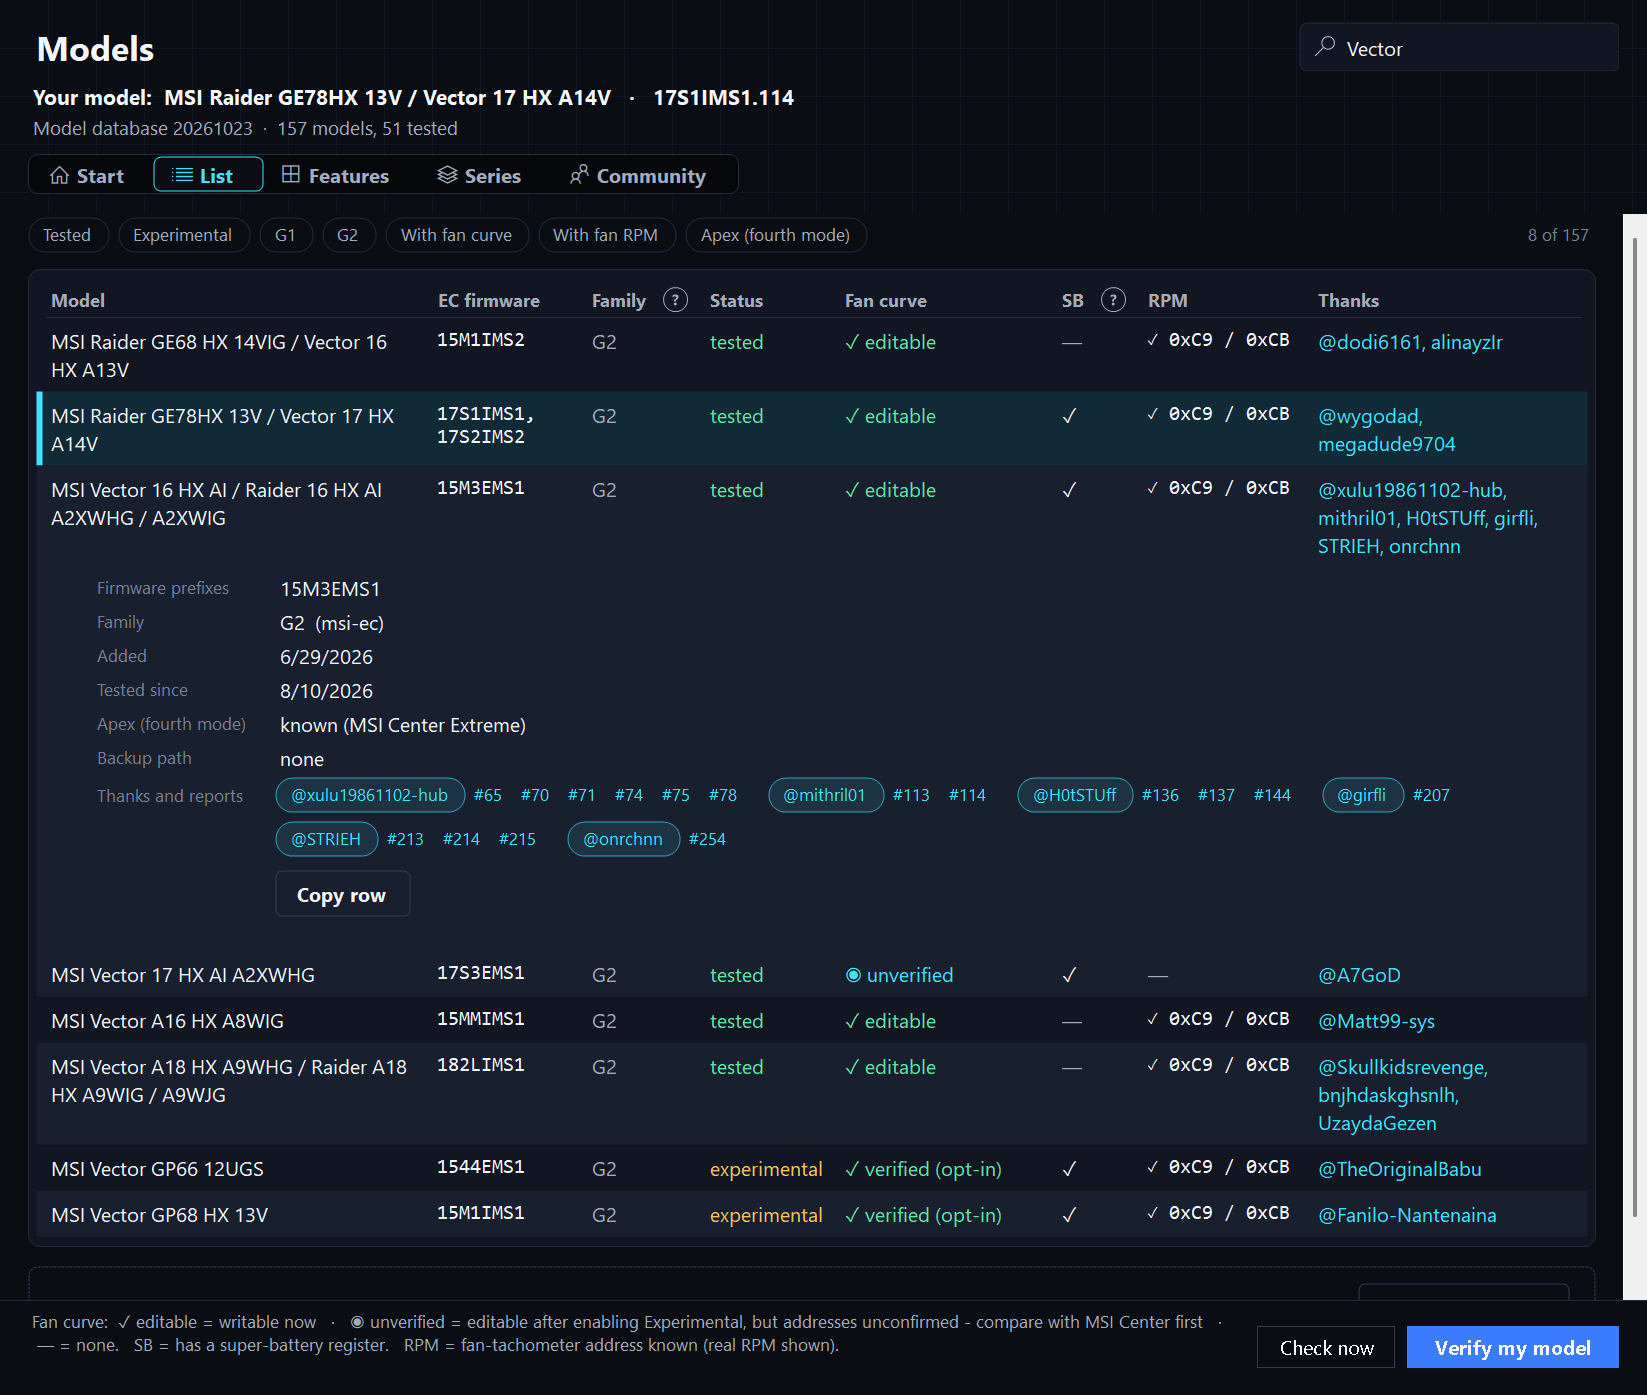
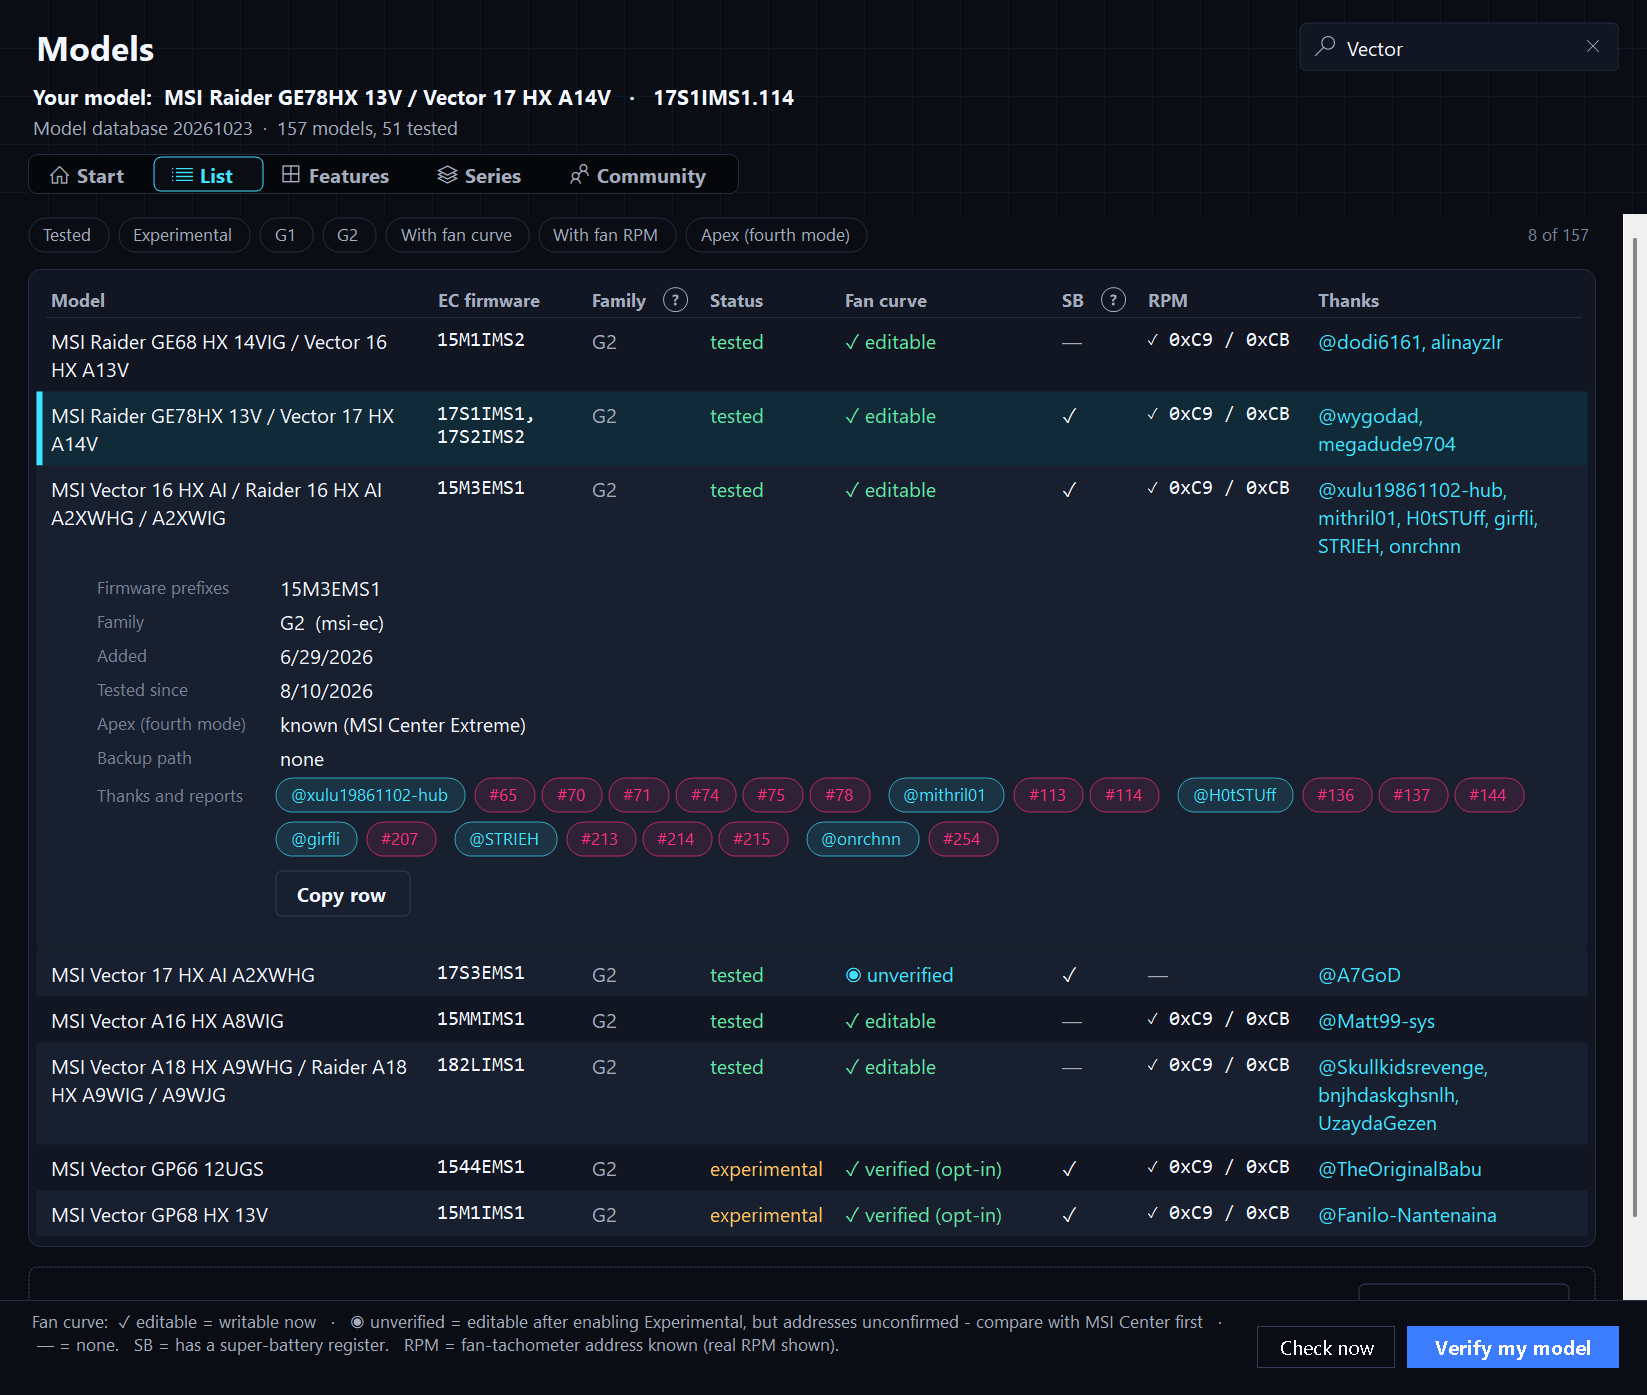
Models tab: report numbers as brand-pink chips, clear button in the search box, timeline hover clear of the date, no horizontal scrollbar
The view's width is decided before the vertical scrollbar appears (measure at full width, lay
out again next to the bar when the content is taller) and the panel recomputes its bars right
after, so the List and Community no longer show a horizontal bar.

Changed region(s): [[0.1858, 0.5548, 0.929, 0.6165]]

diff --git a/UI/ModelsPage.cs b/UI/ModelsPage.cs
@@ -327,13 +327,21 @@ public sealed class ModelsPage : ThemedPage
     /// <summary>Size the visible view to its content (the host scrolls it).</summary>
     internal void LayoutContent()
     {
+        // The view's width is decided BEFORE the vertical scrollbar shows up: measure at the full
+        // width, and when the content is taller than the host, lay out again at the width that is
+        // left next to the bar. Sizing the child after the bar appeared left the panel with a
+        // horizontal bar it never recomputed (same trap as ThemedPage.LayoutAndSyncScroll).
         var v = _views[_tab];
-        int w = _scrollHost.ClientSize.Width;
-        v.Width = w;
-        v.Height = Math.Max(v.ContentHeight(w), _scrollHost.ClientSize.Height);
-        // the scrollbar may have appeared or gone with the new height: measure once more
-        int w2 = _scrollHost.ClientSize.Width;
-        if (w2 != w) { v.Width = w2; v.Height = Math.Max(v.ContentHeight(w2), _scrollHost.ClientSize.Height); }
+        int full = _scrollHost.Width, hostH = _scrollHost.Height;
+        int h = v.ContentHeight(full);
+        int w = full;
+        if (h > hostH)
+        {
+            w = full - SystemInformation.VerticalScrollBarWidth;
+            h = v.ContentHeight(w);
+        }
+        v.SetBounds(v.Left, v.Top, w, Math.Max(h, hostH));
+        _scrollHost.PerformLayout();   // the panel recomputes its bars for the new child size
     }
 
     private void PaintFooter(object? sender, PaintEventArgs e)
@@ -394,6 +402,7 @@ public sealed class ModelsPage : ThemedPage
     {
         public readonly TextBox Box = new() { BorderStyle = BorderStyle.None, Font = new Font("Segoe UI", 10.5f) };
         private static readonly Font Glyph = new("Segoe MDL2 Assets", 10.5f);
+        private static readonly Font ClearGlyph = new("Segoe MDL2 Assets", 8.5f);
 
         public SearchBox()
         {
@@ -403,6 +412,7 @@ public sealed class ModelsPage : ThemedPage
             Controls.Add(Box);
             Box.GotFocus += (_, _) => Invalidate();
             Box.LostFocus += (_, _) => Invalidate();
+            Box.TextChanged += (_, _) => { PerformLayout(); Invalidate(); };   // the X comes and goes
             ApplyTheme();
         }
 
@@ -411,12 +421,30 @@ public sealed class ModelsPage : ThemedPage
 
         public void ApplyTheme() { Box.BackColor = Theme.Card; Box.ForeColor = Theme.Text; BackColor = Theme.Surface; Invalidate(); }
 
-        protected override void OnClick(EventArgs e) { base.OnClick(e); Box.Focus(); }
+        private bool HasText => Box.TextLength > 0;
+        private Rectangle ClearRect => new(Width - S(30), (Height - S(22)) / 2, S(22), S(22));
+        private bool _overClear;
+
+        protected override void OnMouseMove(MouseEventArgs e)
+        {
+            base.OnMouseMove(e);
+            bool over = HasText && ClearRect.Contains(e.Location);
+            Cursor = over ? Cursors.Hand : Cursors.IBeam;
+            if (over != _overClear) { _overClear = over; Invalidate(); }
+        }
+        protected override void OnMouseLeave(EventArgs e) { base.OnMouseLeave(e); if (_overClear) { _overClear = false; Invalidate(); } }
+
+        protected override void OnMouseClick(MouseEventArgs e)
+        {
+            base.OnMouseClick(e);
+            if (HasText && ClearRect.Contains(e.Location)) Box.Clear();   // TextChanged re-filters
+            Box.Focus();
+        }
 
         protected override void OnLayout(LayoutEventArgs levent)
         {
             base.OnLayout(levent);
-            int left = S(34), right = S(12);
+            int left = S(34), right = HasText ? S(36) : S(12);
             Box.SetBounds(left, (Height - Box.Height) / 2, Math.Max(10, Width - left - right), Box.Height);
         }
 
@@ -432,6 +460,16 @@ public sealed class ModelsPage : ThemedPage
                 using var pen = new Pen(focus ? Theme.Accent : Theme.Border, focus ? 1.5f : 1f); g.DrawPath(pen, path);
             }
             Ui.CenterGlyph(g, "\uE721", Glyph, focus ? Theme.Accent : Theme.Muted, new RectangleF(S(8), 0, S(20), Height));
+            if (HasText)
+            {
+                var cr = ClearRect;
+                if (_overClear)
+                {
+                    using var b = new SolidBrush(Color.FromArgb(Theme.Dark ? 30 : 20, Theme.Text));
+                    g.FillEllipse(b, cr);
+                }
+                Ui.CenterGlyph(g, "\uE711", ClearGlyph, _overClear ? Theme.Text : Theme.Muted, cr);
+            }
         }
     }
 }

diff --git a/UI/ModelsViews.cs b/UI/ModelsViews.cs
@@ -10,7 +10,7 @@ namespace GhostDeck;
 /// change.
 /// </summary>
 /// <summary>How a click zone shows that it is under the mouse.</summary>
-internal enum HoverKind { None, Card, Row, Chip, Button, Link }
+internal enum HoverKind { None, Card, Row, Chip, ChipPink, Button, Link }
 
 internal abstract class ModelsView : Control
 {
@@ -83,10 +83,12 @@ internal abstract class ModelsView : Control
                 using (var bar = new SolidBrush(Theme.Accent)) g.FillRectangle(bar, r.X, r.Y, S(3), r.Height);
                 break;
             case HoverKind.Chip:
+            case HoverKind.ChipPink:
+                var hc = k == HoverKind.ChipPink ? Theme.Red : Theme.Accent;
                 using (var path = Theme.RoundRect(new RectangleF(r.X + 0.5f, r.Y + 0.5f, r.Width - 1, r.Height - 1), r.Height / 2f - 1))
                 {
-                    using var b = new SolidBrush(Color.FromArgb(40, Theme.Accent)); g.FillPath(b, path);
-                    using var pen = new Pen(Theme.Accent); g.DrawPath(pen, path);
+                    using var b = new SolidBrush(Color.FromArgb(40, hc)); g.FillPath(b, path);
+                    using var pen = new Pen(hc); g.DrawPath(pen, path);
                 }
                 break;
             case HoverKind.Button:
@@ -137,23 +139,23 @@ internal abstract class ModelsView : Control
             string label = "@" + login;
             int cw = ModelsText.NaturalW(label, ModelsPage.FSmall) + S(16);
             var nums = d.CreditIssues.TryGetValue(login, out var n) ? n : Array.Empty<int>();
-            int numsW = nums.Sum(k => ModelsText.NaturalW("#" + k, ModelsPage.FSmall) + S(6));
+            int numsW = nums.Sum(k => ModelsText.NaturalW("#" + k, ModelsPage.FSmall) + S(16) + S(4));
             if (cx + cw + numsW > x + w && cx > x) { cx = x; cy += ch + S(6); }
             Chip(g, cx, cy, label, Theme.Accent, true);
             string who = login;
             Zone(g, new Rectangle(cx, cy, cw, ch), () => ModelsPage.OpenUrl("https://github.com/" + Uri.EscapeDataString(who)),
                  "github.com/" + who, HoverKind.Chip);
             cx += cw + S(6);
+            // each report: a chip like the login's, in the brand pink (the Extreme colour)
             foreach (var num in nums)
             {
                 string t = "#" + num;
-                int tw = ModelsText.NaturalW(t, ModelsPage.FSmall);
+                int tw = ModelsText.NaturalW(t, ModelsPage.FSmall) + S(16);
                 if (cx + tw > x + w && cx > x) { cx = x; cy += ch + S(6); }
-                var r = new Rectangle(cx, cy + (ch - ModelsPage.FSmall.Height) / 2, tw, ModelsPage.FSmall.Height);
-                T(g, t, ModelsPage.FSmall, r, Theme.Accent, TextFormatFlags.Left | TextFormatFlags.NoPrefix | TextFormatFlags.SingleLine | TextFormatFlags.NoPadding);
+                Chip(g, cx, cy, t, Theme.Red, true);
                 string url = "https://github.com/wygodad/ghostdeck/issues/" + num;
-                Zone(g, r, () => ModelsPage.OpenUrl(url), url, HoverKind.Link);
-                cx += tw + S(6);
+                Zone(g, new Rectangle(cx, cy, tw, ch), () => ModelsPage.OpenUrl(url), url, HoverKind.ChipPink);
+                cx += tw + S(4);
             }
             cx += S(8);
         }
@@ -292,7 +294,9 @@ internal abstract class ModelsView : Control
         int h = Para(g, text, ModelsPage.FCell, tx, y, tw, Theme.Text);
         if (ev.Tested && ev.Credit.Length > 0)
             h += Para(g, "@" + string.Join(", @", ModelsStats.Logins(ev.Credit)), ModelsPage.FSmall, tx, y + h, tw, Theme.Accent);
-        if (ev.Model != null) Zone(g, new Rectangle(x, y, w, h), () => P.ShowListFor(ev.Model.FirmwarePrefixes[0], ev.Model));
+        // the hover tint and its accent bar sit in a margin left of the date, never on it
+        if (ev.Model != null)
+            Zone(g, new Rectangle(x - S(12), y - S(3), w + S(12), h + S(6)), () => P.ShowListFor(ev.Model.FirmwarePrefixes[0], ev.Model));
         return h;
     }
 }
